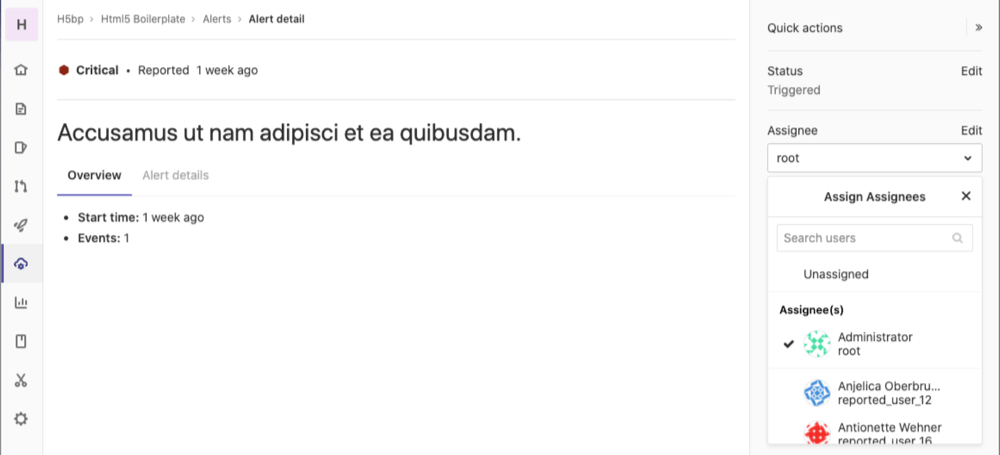
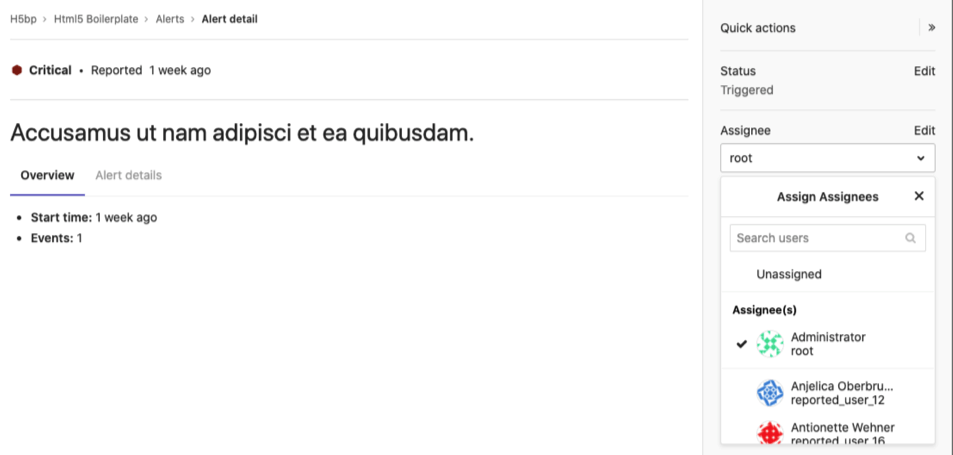
Edit and remove images in alerts doc

diff --git a/doc/operations/incident_management/alerts.md b/doc/operations/incident_management/alerts.md
@@ -167,21 +167,18 @@ difficult to track who is investigating and working on it. Assigning alerts ease
 
 To assign an alert:
 
-1. To display the list of current alerts, navigate to **Operations > Alerts**:
+1. To display the list of current alerts, navigate to **Operations > Alerts**.
 
-   ![Alert List View Assignee(s)](img/alert_list_assignees_v13_1.png)
-
-1. Select your desired alert to display its **Alert Details View**:
+1. Select your desired alert to display its details.
 
    ![Alert Details View Assignee(s)](img/alert_details_assignees_v13_1.png)
 
 1. If the right sidebar is not expanded, select
    **{angle-double-right}** **Expand sidebar** to expand it.
+
 1. In the right sidebar, locate the **Assignee**, and then select **Edit**.
    From the dropdown menu, select each user you want to assign to the alert.
    GitLab creates a [to-do item](../../user/todos.md) for each user.
-
-   ![Alert Details View Assignee(s)](img/alert_todo_assignees_v13_1.png)
 
 After completing their portion of investigating or fixing the alert, users can
 unassign themselves from the alert. To remove an assignee, select **Edit** next to the **Assignee** dropdown menu
@@ -202,8 +199,6 @@ add a to-do item:
    ![Alert Details Add a to do](img/alert_detail_add_todo_v13_9.png)
 
 Select the **To-Do List** **{todo-done}** in the navigation bar to view your current to-do list.
-
-![Alert Details Added to do](img/alert_detail_added_todo_v13_1.png)
 
 ## Link runbooks to alerts
 
